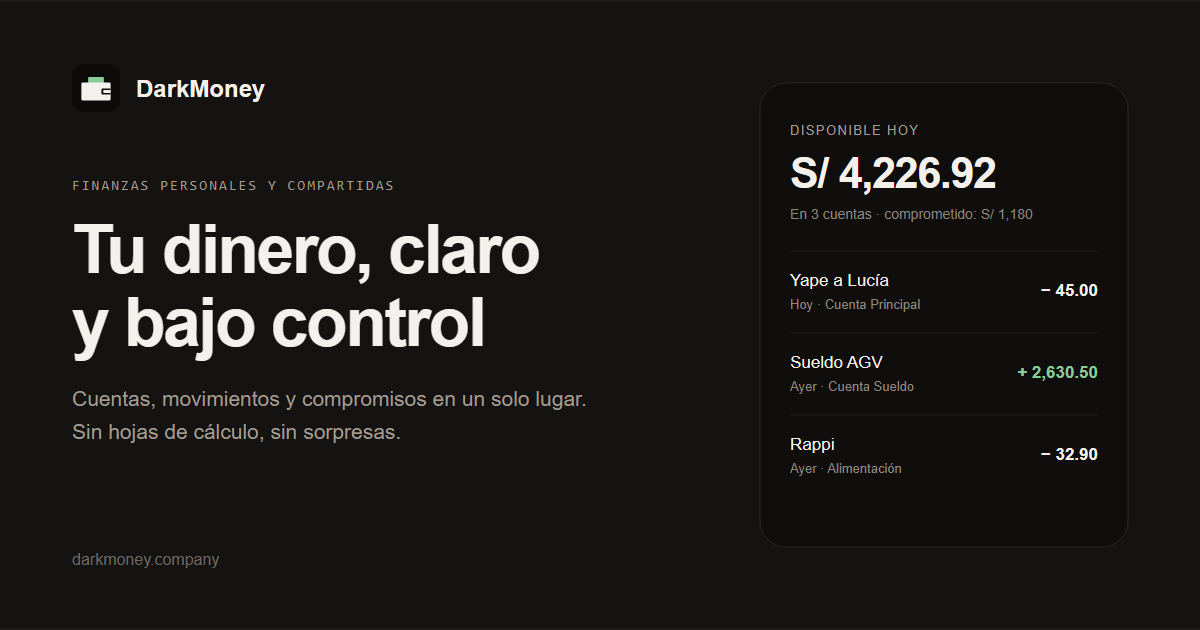
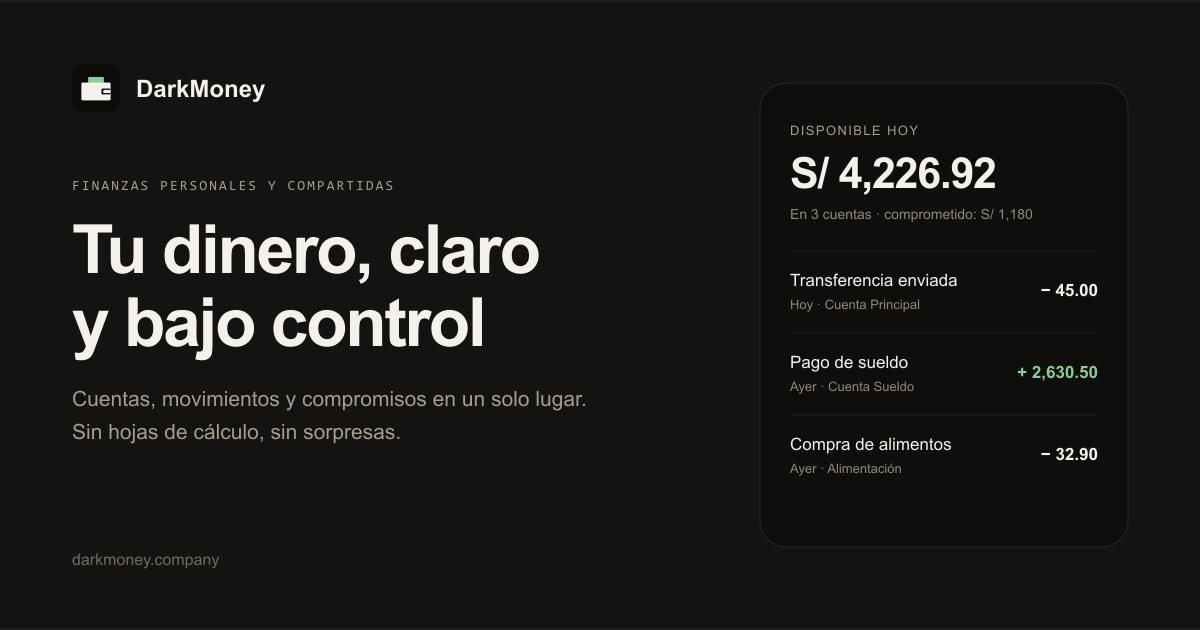
fix(landing): replace personal demo data with generic examples

diff --git a/src/modules/public/components/landing/dashboard-preview.tsx b/src/modules/public/components/landing/dashboard-preview.tsx
@@ -4,30 +4,31 @@ import {
   House,
   LayoutGrid,
   Scale,
+  UserRound,
 } from "lucide-react";
 
 const movements = [
   {
     amount: "− 45.00",
-    label: "Yape a Lucía",
+    label: "Transferencia enviada",
     meta: "Hoy · Cuenta Principal",
     positive: false,
   },
   {
     amount: "+ 2,630.50",
-    label: "Sueldo AGV",
+    label: "Pago de sueldo",
     meta: "Ayer · Cuenta Sueldo",
     positive: true,
   },
   {
     amount: "− 32.90",
-    label: "Rappi",
+    label: "Compra de alimentos",
     meta: "Ayer · Alimentación",
     positive: false,
   },
   {
     amount: "− 4.00",
-    label: "Moto",
+    label: "Transporte",
     meta: "Ayer · Transporte",
     positive: false,
   },
@@ -62,8 +63,8 @@ export function DashboardPreview() {
           <span className="font-public-display text-[15px] font-semibold tracking-[-0.015em]">
             Inicio
           </span>
-          <span className="font-public-display flex h-[26px] w-[26px] items-center justify-center rounded-lg bg-[#f4f1ec] text-[10px] font-semibold text-[#141312]">
-            AG
+          <span aria-label="Perfil de ejemplo" className="font-public-display flex h-[26px] w-[26px] items-center justify-center rounded-lg bg-[#f4f1ec] text-[10px] font-semibold text-[#141312]" role="img">
+            <UserRound aria-hidden="true" className="h-3.5 w-3.5" strokeWidth={1.8} />
           </span>
         </div>
 

diff --git a/src/app/layouts/auth-shell.tsx b/src/app/layouts/auth-shell.tsx
@@ -4,9 +4,9 @@ import { Link, Outlet } from "react-router-dom";
 import { BrandLogo } from "../../components/ui/brand-logo";
 
 const movements = [
-  { label: "Yape a Lucía", meta: "Hoy · Cuenta Principal", amount: "− 45.00" },
-  { label: "Sueldo AGV", meta: "Ayer · Cuenta Sueldo", amount: "+ 2,630.50", income: true },
-  { label: "Rappi", meta: "Ayer · Alimentación", amount: "− 32.90" },
+  { label: "Transferencia enviada", meta: "Hoy · Cuenta Principal", amount: "− 45.00" },
+  { label: "Pago de sueldo", meta: "Ayer · Cuenta Sueldo", amount: "+ 2,630.50", income: true },
+  { label: "Compra de alimentos", meta: "Ayer · Alimentación", amount: "− 32.90" },
 ];
 
 export function AuthShell() {
